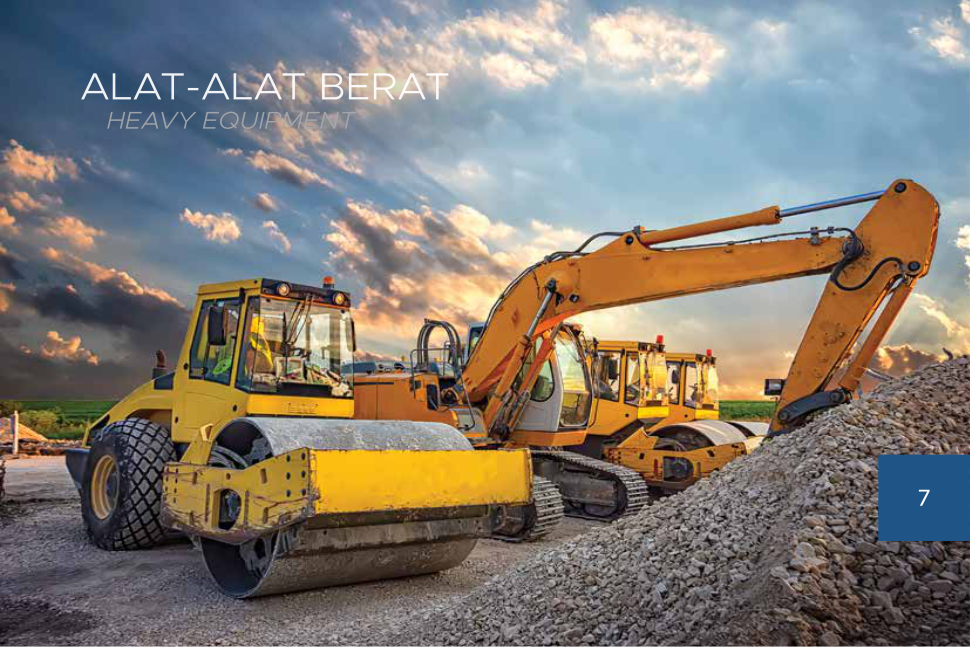
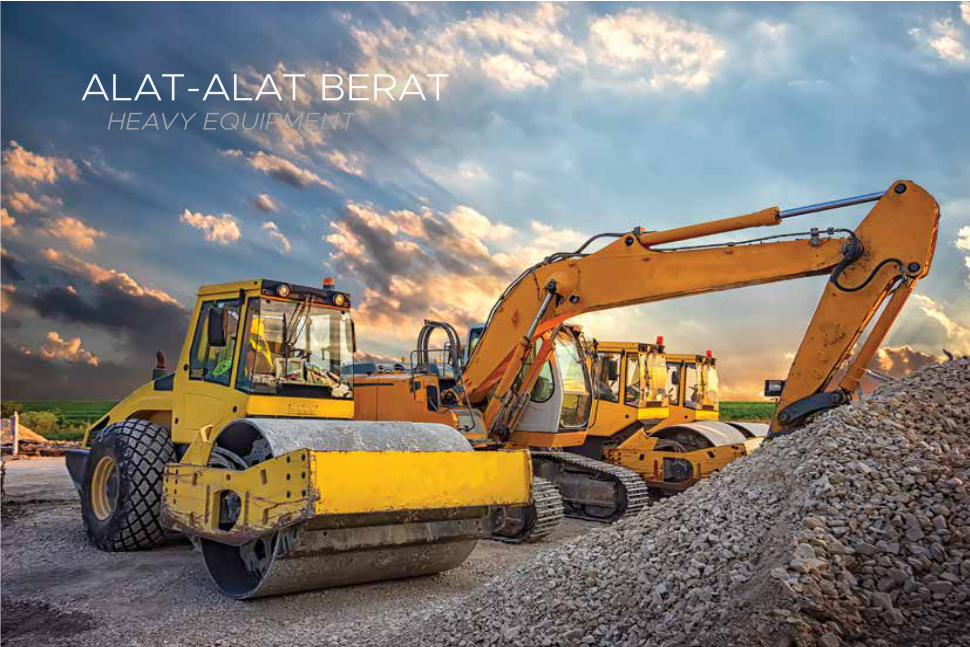
4

diff --git a/index.html b/index.html
@@ -250,7 +250,7 @@
     <!-- End Features -->
 
     <!-- Parallax -->
-    <div class="js__parallax" style="background: url(img/1920x1080/page3.png) 50% 0 no-repeat; background-size:cover;">
+    <div class="js__parallax" style="background: url(img/1920x1080/page4.png) 50% 0 no-repeat; background-size:cover;">
       <!-- <img class="img-responsive" src="img/1920x1080/page3.png" alt="Responsive image" style=""> -->
       <div class="container g-text-center--xs g-padding-y-80--xs g-padding-y-125--sm">
         <div class="g-margin-b-80--xs">
